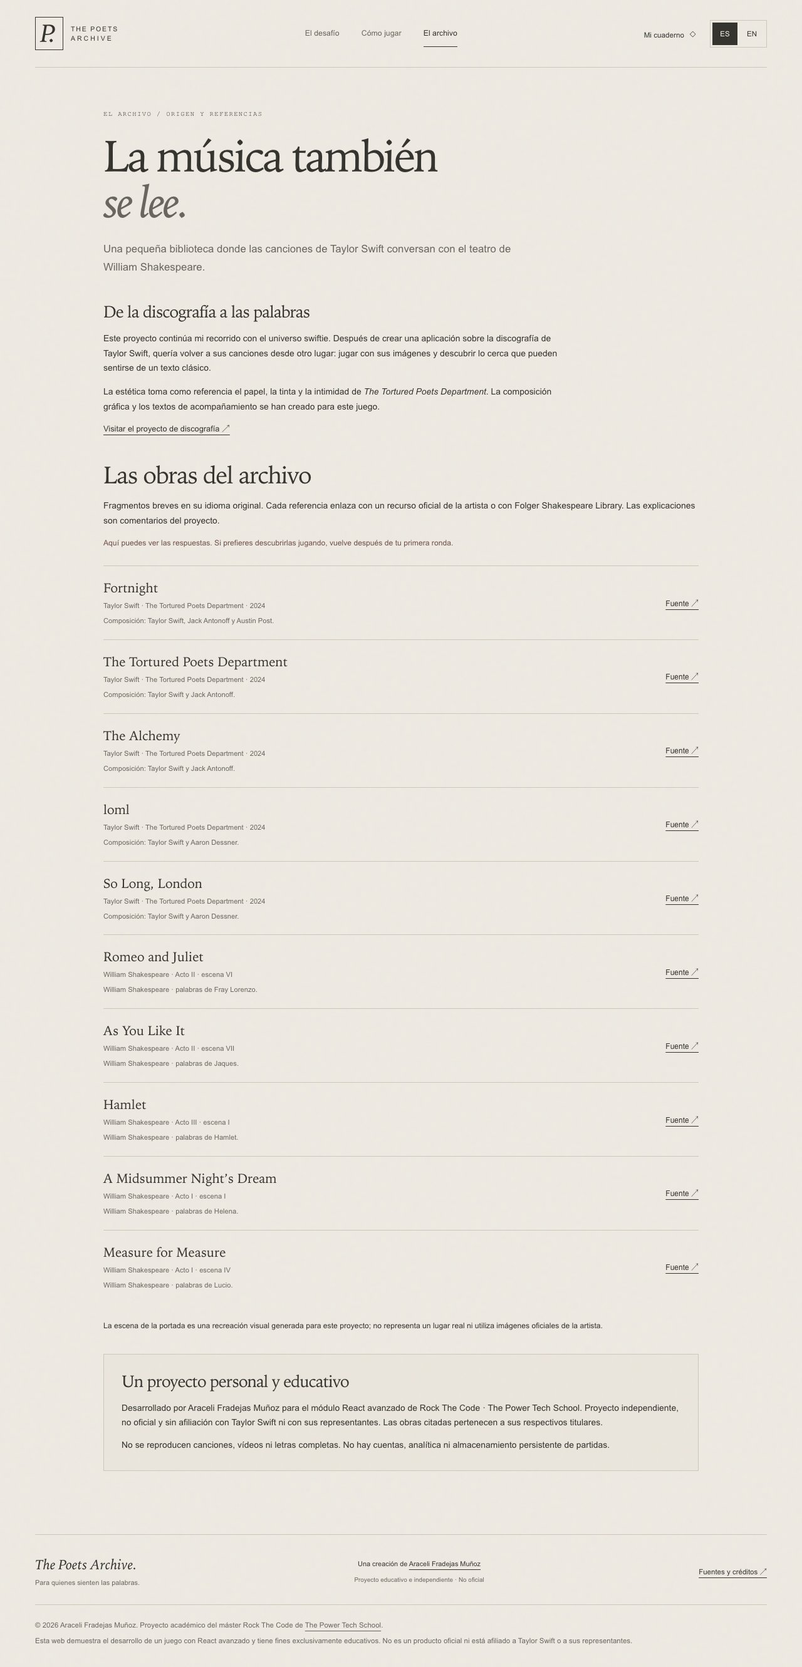
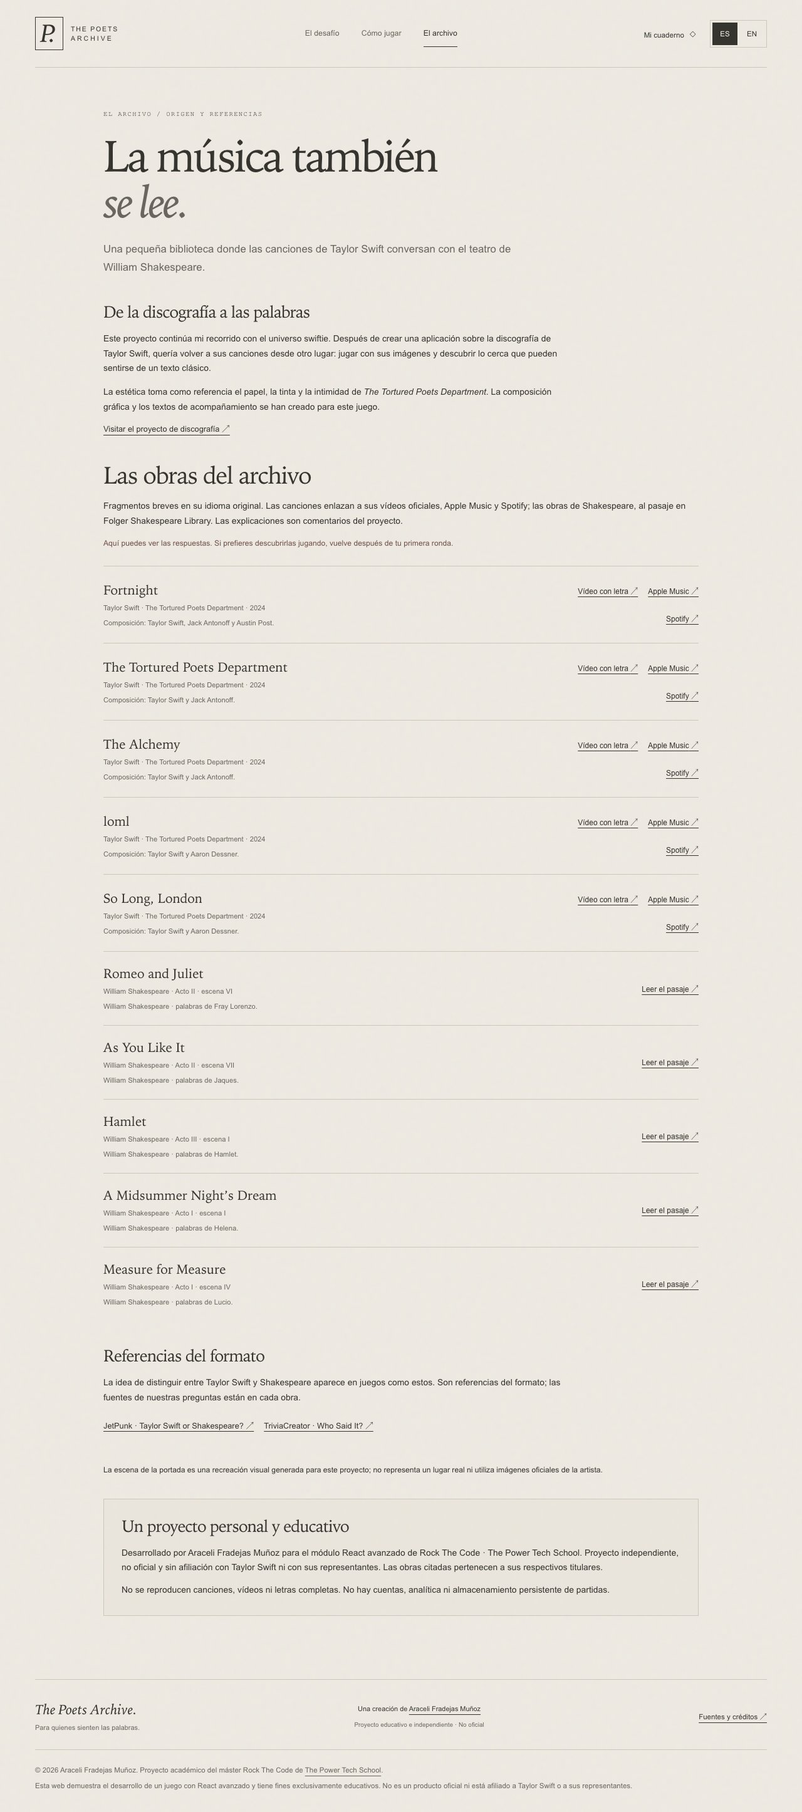
Corrige las fuentes y añade enlaces directos a las canciones y pasajes

diff --git a/src/data/questions.js b/src/data/questions.js
@@ -7,13 +7,17 @@ export const questions = [
     explanation: 'La rutina sirve como imagen de un malestar que parece repetirse. Es una canción de The Tortured Poets Department, con Post Malone.',
     credits: 'Composición: Taylor Swift, Jack Antonoff y Austin Post.',
     source: 'https://www.youtube.com/watch?v=HzsQHfBA3MY',
+    spotifyUrl: 'https://open.spotify.com/track/2OzhQlSqBEmt7hmkYxfT6m',
+    appleMusicUrl: 'https://music.apple.com/us/song/fortnight-feat-post-malone/1736268216',
   },
   {
     id: 'typewriter', author: 'taylor', quote: 'You left your typewriter at my apartment',
     work: 'The Tortured Poets Department', collection: ttpd, hint: 'Un objeto de escritura queda en un espacio doméstico.',
     explanation: 'La máquina de escribir abre la canción que da nombre al álbum y conecta su imaginario con la literatura.',
     credits: 'Composición: Taylor Swift y Jack Antonoff.',
-    source: 'https://www.taylorswift.com/ttpdcreditsfortnightacoustic/',
+    source: 'https://www.youtube.com/watch?v=RQMz4JDbtmI',
+    spotifyUrl: 'https://open.spotify.com/track/3NMrVbIVWT3fPXBj0rNDKG',
+    appleMusicUrl: 'https://music.apple.com/us/song/the-tortured-poets-department/1736268219',
   },
   {
     id: 'alchemy', author: 'taylor', quote: 'These chemicals hit me like white wine',
@@ -21,6 +25,8 @@ export const questions = [
     explanation: 'La canción combina imágenes químicas y deportivas para hablar de una conexión amorosa.',
     credits: 'Composición: Taylor Swift y Jack Antonoff.',
     source: 'https://www.youtube.com/watch?v=iMMUAd66vxo',
+    spotifyUrl: 'https://open.spotify.com/track/1dhMTsEZz6ZEquGvmzVoHn',
+    appleMusicUrl: 'https://music.apple.com/us/song/the-alchemy/1736268524',
   },
   {
     id: 'loml', author: 'taylor', quote: 'Dancing phantoms on the terrace',
@@ -28,6 +34,8 @@ export const questions = [
     explanation: 'La imagen de los fantasmas evoca una intimidad que ya no está. El título abreviado juega con el amor y la pérdida.',
     credits: 'Composición: Taylor Swift y Aaron Dessner.',
     source: 'https://www.youtube.com/watch?v=GZ4vaTRn0HU',
+    spotifyUrl: 'https://open.spotify.com/track/1hDaTv1fIBa3178MLmfdN4',
+    appleMusicUrl: 'https://music.apple.com/us/song/loml/1736268515',
   },
   {
     id: 'london', author: 'taylor', quote: 'I stopped trying to make him laugh',
@@ -35,40 +43,42 @@ export const questions = [
     explanation: 'La voz narrativa enumera esfuerzos que deja de hacer. La despedida se dirige también a la ciudad del título.',
     credits: 'Composición: Taylor Swift y Aaron Dessner.',
     source: 'https://www.youtube.com/watch?v=CCUr2pNJft4',
+    spotifyUrl: 'https://open.spotify.com/track/3Vevii7qKqrmW8CcyzBHDl',
+    appleMusicUrl: 'https://music.apple.com/us/song/so-long-london/1736268498',
   },
   {
     id: 'romeo', author: 'shakespeare', quote: 'These violent delights have violent ends',
     work: 'Romeo and Juliet', collection: 'Acto II · escena VI', hint: 'Una advertencia antes de una unión precipitada.',
     explanation: 'Fray Lorenzo advierte sobre los extremos de la pasión antes de la boda de Romeo y Julieta.',
     credits: 'William Shakespeare · palabras de Fray Lorenzo.',
-    source: 'https://www.folger.edu/explore/shakespeares-works/romeo-and-juliet/read/2/6/',
+    source: 'https://www.folger.edu/explore/shakespeares-works/romeo-and-juliet/read/2/6/#line-2.6.9',
   },
   {
     id: 'stage', author: 'shakespeare', quote: 'All the world’s a stage',
     work: 'As You Like It', collection: 'Acto II · escena VII', hint: 'La vida se compara con una representación.',
     explanation: 'Jaques presenta las edades de la vida como papeles que una persona interpreta sobre un escenario.',
     credits: 'William Shakespeare · palabras de Jaques.',
-    source: 'https://www.folger.edu/explore/shakespeares-works/as-you-like-it/read/2/7/',
+    source: 'https://www.folger.edu/explore/shakespeares-works/as-you-like-it/read/2/7/#line-2.7.146',
   },
   {
     id: 'hamlet', author: 'shakespeare', quote: 'To be or not to be',
     work: 'Hamlet', collection: 'Acto III · escena I', hint: 'Una duda sobre la existencia abre un soliloquio.',
     explanation: 'Hamlet sopesa el sufrimiento y lo desconocido. Es el comienzo de su célebre soliloquio.',
     credits: 'William Shakespeare · palabras de Hamlet.',
-    source: 'https://www.folger.edu/explore/shakespeares-works/hamlet/read/3/1/',
+    source: 'https://www.folger.edu/explore/shakespeares-works/hamlet/read/3/1/#line-3.1.64',
   },
   {
     id: 'dream', author: 'shakespeare', quote: 'Love looks not with the eyes',
     work: 'A Midsummer Night’s Dream', collection: 'Acto I · escena I', hint: 'La mirada no basta para explicar el enamoramiento.',
     explanation: 'Helena reflexiona sobre la forma en que el amor transforma la percepción de la persona amada.',
     credits: 'William Shakespeare · palabras de Helena.',
-    source: 'https://www.folger.edu/explore/shakespeares-works/a-midsummer-nights-dream/read/1/1/',
+    source: 'https://www.folger.edu/explore/shakespeares-works/a-midsummer-nights-dream/read/1/1/#line-1.1.240',
   },
   {
     id: 'doubts', author: 'shakespeare', quote: 'Our doubts are traitors',
     work: 'Measure for Measure', collection: 'Acto I · escena IV', hint: 'El temor puede impedir que intentemos lo que deseamos.',
     explanation: 'Lucio anima a Isabella a actuar. Las dudas aparecen personificadas como traidoras que nos hacen perder oportunidades.',
     credits: 'William Shakespeare · palabras de Lucio.',
-    source: 'https://www.folger.edu/explore/shakespeares-works/measure-for-measure/read/1/4/',
+    source: 'https://www.folger.edu/explore/shakespeares-works/measure-for-measure/read/1/4/#line-1.4.85',
   },
 ];

diff --git a/src/pages/Archive.jsx b/src/pages/Archive.jsx
@@ -1,10 +1,12 @@
+import WorkLinks from '../components/WorkLinks';
 import { useLanguage } from '../context/LanguageContext';
 import { questions, authorNames } from '../data/questions';
 export default function Archive() {
   const { t } = useLanguage();
   return <article className="reading-page"><p className="eyebrow">{t("EL ARCHIVO / ORIGEN Y REFERENCIAS")}</p><h1 tabIndex={-1}>{t("La música también")}<br /><em>{t("se lee.")}</em></h1><p className="lead">{t("Una pequeña biblioteca donde las canciones de Taylor Swift conversan con el teatro de William Shakespeare.")}</p>
     <section className="archive-story"><h2>{t("De la discografía a las palabras")}</h2><p>{t("Este proyecto continúa mi recorrido con el universo swiftie. Después de crear una aplicación sobre la discografía de Taylor Swift, quería volver a sus canciones desde otro lugar: jugar con sus imágenes y descubrir lo cerca que pueden sentirse de un texto clásico.")}</p><p>{t("La estética toma como referencia el papel, la tinta y la intimidad de ")}<cite>{t("The Tortured Poets Department")}</cite>{t(". La composición gráfica y los textos de acompañamiento se han creado para este juego.")}</p><a href="https://github.com/AraceliFradejas/RTC-PROYECTO6-API-REST" target="_blank" rel="noreferrer">{t("Visitar el proyecto de discografía ↗")}</a></section>
-    <section><h2>{t("Las obras del archivo")}</h2><p>{t("Fragmentos breves en su idioma original. Cada referencia enlaza con un recurso oficial de la artista o con Folger Shakespeare Library. Las explicaciones son comentarios del proyecto.")}</p><p className="small">{t("Aquí puedes ver las respuestas. Si prefieres descubrirlas jugando, vuelve después de tu primera ronda.")}</p><ul className="source-list">{questions.map((question) => <li key={question.id}><span><strong>{question.work}</strong><small>{authorNames[question.author]} · {t(question.collection)}</small><small>{t(question.credits)}</small></span><a href={question.source} target="_blank" rel="noreferrer" aria-label={t('Fuente de {work}', { work: question.work })}>{t("Fuente ↗")}</a></li>)}</ul></section>
+    <section><h2>{t("Las obras del archivo")}</h2><p>{t("Fragmentos breves en su idioma original. Las canciones enlazan a sus vídeos oficiales, Apple Music y Spotify; las obras de Shakespeare, al pasaje en Folger Shakespeare Library. Las explicaciones son comentarios del proyecto.")}</p><p className="small">{t("Aquí puedes ver las respuestas. Si prefieres descubrirlas jugando, vuelve después de tu primera ronda.")}</p><ul className="source-list">{questions.map((question) => <li key={question.id}><span><strong>{question.work}</strong><small>{authorNames[question.author]} · {t(question.collection)}</small><small>{t(question.credits)}</small></span><WorkLinks question={question}/></li>)}</ul></section>
+    <section className="archive-story"><h2>{t('Referencias del formato')}</h2><p>{t('La idea de distinguir entre Taylor Swift y Shakespeare aparece en juegos como estos. Son referencias del formato; las fuentes de nuestras preguntas están en cada obra.')}</p><div className="work-links"><a href="https://www.jetpunk.com/user-quizzes/1596124/taylor-swift-or-shakespeare" target="_blank" rel="noopener noreferrer">JetPunk · Taylor Swift or Shakespeare? ↗</a><a href="https://triviacreator.com/quiz/xgXwToS" target="_blank" rel="noopener noreferrer">TriviaCreator · Who Said It? ↗</a></div></section>
     <p className="small">{t('La escena de la portada es una recreación visual generada para este proyecto; no representa un lugar real ni utiliza imágenes oficiales de la artista.')}</p><aside className="note"><h2>{t("Un proyecto personal y educativo")}</h2><p>{t("Desarrollado por Araceli Fradejas Muñoz para el módulo React avanzado de Rock The Code · The Power Tech School. Proyecto independiente, no oficial y sin afiliación con Taylor Swift ni con sus representantes. Las obras citadas pertenecen a sus respectivos titulares.")}</p><p>{t("No se reproducen canciones, vídeos ni letras completas. No hay cuentas, analítica ni almacenamiento persistente de partidas.")}</p></aside>
   </article>;
 }

diff --git a/src/pages/Notebook.jsx b/src/pages/Notebook.jsx
@@ -1,3 +1,4 @@
+import WorkLinks from '../components/WorkLinks';
 import { useMemo, useState } from 'react';
 import { useLanguage } from '../context/LanguageContext';
 import { useNotebook, useNotebookActions } from '../context/NotebookContext';
@@ -21,7 +22,7 @@ export default function Notebook() {
     <h2 className="sr-only">{t("Mis sellos de lectura")}</h2><ReadingStamps {...session}/>
     <div className="notebook-section-heading"><h2>{t('Mis hallazgos')}</h2><div className="collection-filters" role="group" aria-label={t('Filtrar obras')}><button aria-pressed={filter === 'all'} onClick={() => setFilter('all')}>{t('Descubiertas')}</button><button aria-pressed={filter === 'saved'} onClick={() => setFilter('saved')}>{t('Guardadas')}</button></div></div>
     <label className="notebook-search">{t('Buscar por obra o autor')}<input type="search" value={query} onChange={event => setQuery(event.target.value)} placeholder={t('Un título, una voz…')}/></label>
-    {works.length ? <div className="discovery-grid">{works.map(question => <article key={question.id} className="discovery-card"><span className="eyebrow">{authorNames[question.author]}</span><h3>{question.work}</h3><p>{t(question.explanation)}</p><SaveButton id={question.id}/><a href={question.source} target="_blank" rel="noreferrer">{t('Consultar la fuente ↗')}</a></article>)}</div> : <div className="notebook-empty"><span aria-hidden="true">❧</span><h3>{t(session.discovered.length ? 'Aquí todavía no hay una coincidencia.' : 'Todavía hay páginas en blanco.')}</h3><p>{t('Juega un capítulo para descubrir obras. Después podrás guardarlas y encontrarlas aquí.')}</p><Link to="/">{t('Explorar los desafíos')} →</Link></div>}
+    {works.length ? <div className="discovery-grid">{works.map(question => <article key={question.id} className="discovery-card"><span className="eyebrow">{authorNames[question.author]}</span><h3>{question.work}</h3><p>{t(question.explanation)}</p><SaveButton id={question.id}/><WorkLinks question={question}/></article>)}</div> : <div className="notebook-empty"><span aria-hidden="true">❧</span><h3>{t(session.discovered.length ? 'Aquí todavía no hay una coincidencia.' : 'Todavía hay páginas en blanco.')}</h3><p>{t('Juega un capítulo para descubrir obras. Después podrás guardarlas y encontrarlas aquí.')}</p><Link to="/">{t('Explorar los desafíos')} →</Link></div>}
     <section className="session-history"><h2>{t('Mi recorrido')}</h2><p className="small">{t('Últimas veinte partidas terminadas. Las nuevas lecturas no borran las anteriores.')}</p>
       {session.history.length ? <ol>{session.history.map((item, index) => <li key={item.id}><span className="eyebrow">{String(session.history.length - index).padStart(2, '0')}</span><strong>{t(item.challenge === 'eras' ? 'El hilo de las eras' : item.challenge === 'works' ? 'La obra oculta' : 'Entre dos plumas')}</strong><span>{item.challenge === 'eras' ? t('Comprobaciones: {count}', { count: item.checks }) : `${item.score} ${t('puntos')} · ${item.correct}/${item.total}`}</span></li>)}</ol> : <p>{t('Tu primera partida terminada aparecerá aquí.')}</p>}
     </section><div className="notebook-clear">{confirmClear ? <><p>{t('Se borrarán los hallazgos, favoritos, sellos e historial. La partida actual se conserva.')}</p><button className="button button-outline" onClick={() => { dispatch({ type: 'CLEAR' }); setConfirmClear(false); }}>{t('Sí, vaciar mi cuaderno')}</button><button className="text-button" onClick={() => setConfirmClear(false)}>{t('Cancelar')}</button></> : <button className="text-button" disabled={!session.discovered.length && !session.history.length} onClick={() => setConfirmClear(true)}>{t('Vaciar mi cuaderno')}</button>}</div>

diff --git a/src/components/ResultsList.jsx b/src/components/ResultsList.jsx
@@ -1,9 +1,10 @@
+import WorkLinks from './WorkLinks';
 import { useLanguage } from '../context/LanguageContext';
 import { authorNames } from '../data/questions';
 export default function ResultsList({ questions, answers }) {
   const { t } = useLanguage();
   return <ol className="results-list">{answers.map((answer, index) => {
       const question = questions.find((item) => item.id === answer.id);
-      return <li key={answer.id}><span className="result-number">{String(index + 1).padStart(2, '0')}</span><div><h3>{question.work}</h3><p>{authorNames[question.author]} · {answer.correct ? t("Acierto") : answer.author === null ? t("Tiempo agotado") : t('Elegiste {author}', { author: question.choices?.find(choice => choice.id === answer.author)?.label || authorNames[answer.author] })}{answer.hinted ? t(" · Con pista") : ''}</p><details><summary>{t("Leer el contexto y la fuente")}</summary><p>{t(question.explanation)}</p><p>{t(question.credits)}</p><a href={question.source} target="_blank" rel="noreferrer">{t("Consultar la fuente ↗")}</a></details></div><span className="result-points">{answer.correct ? '✓' : '—'} {answer.points} <span className="sr-only">{t("puntos")}</span></span></li>;
+      return <li key={answer.id}><span className="result-number">{String(index + 1).padStart(2, '0')}</span><div><h3>{question.work}</h3><p>{authorNames[question.author]} · {answer.correct ? t("Acierto") : answer.author === null ? t("Tiempo agotado") : t('Elegiste {author}', { author: question.choices?.find(choice => choice.id === answer.author)?.label || authorNames[answer.author] })}{answer.hinted ? t(" · Con pista") : ''}</p><details><summary>{t("Leer el contexto y la fuente")}</summary><p>{t(question.explanation)}</p><p>{t(question.credits)}</p><WorkLinks question={question}/></details></div><span className="result-points">{answer.correct ? '✓' : '—'} {answer.points} <span className="sr-only">{t("puntos")}</span></span></li>;
     })}</ol>;
 }

diff --git a/src/components/Revelation.jsx b/src/components/Revelation.jsx
@@ -1,3 +1,4 @@
+import WorkLinks from './WorkLinks';
 import { useEffect } from 'react';
 import { useNotebookActions } from '../context/NotebookContext';
 import SaveButton from './notebook/SaveButton';
@@ -14,7 +15,7 @@ export default function Revelation({ question, answer, onNext, last }) {
       <h2 id="reveal-heading" ref={heading} tabIndex={-1}>{answer.correct ? t("Has acertado.") : answer.author === null ? t("Se acabó el tiempo.") : t(question.choices ? 'Esta vez, era otra obra.' : 'Esta vez, era otra pluma.')}</h2>
       <p><strong>{authorNames[question.author]}</strong> · <cite>{question.work}</cite></p>
       <p>{t(question.explanation)}</p><p className="credits">{t(question.credits)}</p>
-      <a href={question.source} target="_blank" rel="noreferrer">{t("Consultar la fuente ")}<span aria-hidden="true">↗</span></a>
+      <WorkLinks question={question}/>
     </div><SaveButton id={question.id}/><button className="button" onClick={onNext}>{last ? t("Leer mi resultado") : t("Siguiente fragmento")} <span aria-hidden="true">→</span></button>
   </section>;
 }

diff --git a/src/components/WorkLinks.jsx b/src/components/WorkLinks.jsx
@@ -1,0 +1,14 @@
+import { useLanguage } from '../context/LanguageContext';
+import '../styles/work-links.css';
+
+export default function WorkLinks({ question }) {
+  const { t } = useLanguage();
+  const resources = question.author === 'taylor'
+    ? [[t('Vídeo con letra'), question.source], ['Apple Music', question.appleMusicUrl], ['Spotify', question.spotifyUrl]]
+    : [[t('Leer el pasaje'), question.source]];
+  return <div className="work-links">{resources.map(([resource, href]) =>
+    <a key={resource} href={href} target="_blank" rel="noopener noreferrer"
+      aria-label={t('{resource}: {work} (se abre en otra pestaña)', { resource, work: question.work })}>
+      {resource} <span aria-hidden="true">↗</span>
+    </a>)}</div>;
+}

diff --git a/src/styles/notebook.css b/src/styles/notebook.css
@@ -21,7 +21,6 @@
 .discovery-card { padding: 25px; border: 1px solid var(--line); background: #f8f5ee; display: flex; flex-direction: column; align-items: flex-start; }
 .discovery-card h3 { margin: 15px 0; font-size: 1.7rem; }
 .discovery-card p { font-size: .8rem; flex: 1; margin-bottom: 22px; }
-.discovery-card > a { font-size: .74rem; margin-top: 16px; }
 .notebook-empty { padding: 40px; text-align: center; border: 1px dashed var(--line); }
 .notebook-empty > span { font-size: 2.7rem; color: #9b8c70; }
 .notebook-empty h3 { margin: 12px 0; }

diff --git a/src/styles/work-links.css b/src/styles/work-links.css
@@ -1,0 +1,8 @@
+.work-links { display: flex; flex-wrap: wrap; gap: 6px 16px; align-items: center; }
+.work-links a { font-size: .75rem; padding-block: 10px; text-underline-offset: 4px; }
+.source-list .work-links { flex: 0 1 260px; justify-content: flex-end; }
+.discovery-card .work-links { margin-top: 16px; }
+@media (max-width: 600px) {
+  .source-list li { align-items: flex-start; flex-direction: column; }
+  .source-list .work-links { flex-basis: auto; justify-content: flex-start; }
+}

diff --git a/docs/ENLACES.md b/docs/ENLACES.md
@@ -1,0 +1,42 @@
+# Revisión de enlaces · 27 de septiembre de 2026
+
+Se ha corregido la referencia de la canción The Tortured Poets Department: apuntaba a una página de créditos de otra edición. Ahora abre su vídeo oficial con letra.
+
+El Proyecto 6 construía búsquedas de Spotify y Apple Music por canción y álbum. Esta versión utiliza enlaces directos a las pistas. Se mantienen fuera del juego los reproductores y las conexiones a esas plataformas; solo se abren cuando la persona pulsa el enlace.
+
+## Catálogo revisado
+
+| Obra | Destinos |
+| --- | --- |
+| Fortnight | [Vídeo oficial](https://www.youtube.com/watch?v=HzsQHfBA3MY) · [Apple Music](https://music.apple.com/us/song/fortnight-feat-post-malone/1736268216) · [Spotify](https://open.spotify.com/track/2OzhQlSqBEmt7hmkYxfT6m) |
+| The Tortured Poets Department | [Vídeo oficial](https://www.youtube.com/watch?v=RQMz4JDbtmI) · [Apple Music](https://music.apple.com/us/song/the-tortured-poets-department/1736268219) · [Spotify](https://open.spotify.com/track/3NMrVbIVWT3fPXBj0rNDKG) |
+| The Alchemy | [Vídeo oficial](https://www.youtube.com/watch?v=iMMUAd66vxo) · [Apple Music](https://music.apple.com/us/song/the-alchemy/1736268524) · [Spotify](https://open.spotify.com/track/1dhMTsEZz6ZEquGvmzVoHn) |
+| loml | [Vídeo oficial](https://www.youtube.com/watch?v=GZ4vaTRn0HU) · [Apple Music](https://music.apple.com/us/song/loml/1736268515) · [Spotify](https://open.spotify.com/track/1hDaTv1fIBa3178MLmfdN4) |
+| So Long, London | [Vídeo oficial](https://www.youtube.com/watch?v=CCUr2pNJft4) · [Apple Music](https://music.apple.com/us/song/so-long-london/1736268498) · [Spotify](https://open.spotify.com/track/3Vevii7qKqrmW8CcyzBHDl) |
+| Romeo and Juliet | [Pasaje en Folger](https://www.folger.edu/explore/shakespeares-works/romeo-and-juliet/read/2/6/#line-2.6.9) |
+| As You Like It | [Pasaje en Folger](https://www.folger.edu/explore/shakespeares-works/as-you-like-it/read/2/7/#line-2.7.146) |
+| Hamlet | [Pasaje en Folger](https://www.folger.edu/explore/shakespeares-works/hamlet/read/3/1/#line-3.1.64) |
+| A Midsummer Night’s Dream | [Pasaje en Folger](https://www.folger.edu/explore/shakespeares-works/a-midsummer-nights-dream/read/1/1/#line-1.1.240) |
+| Measure for Measure | [Pasaje en Folger](https://www.folger.edu/explore/shakespeares-works/measure-for-measure/read/1/4/#line-1.4.85) |
+
+## Qué se ha comprobado
+
+- Los cinco vídeos: respuesta 200 de YouTube oEmbed, título de la canción correspondiente y canal Taylor Swift.
+- Las cinco pistas de Apple Music: respuesta 200 y título de canción y artista en la página de destino.
+- Las cinco pistas de Spotify: título y artista en las páginas indexadas; respuesta 200 de oEmbed y título correcto para cada pista.
+- Las cinco escenas de Folger: texto citado presente y respuesta 200; los cinco identificadores de línea existen en el HTML.
+- Archivo oficial de eras, página de The Power Tech School y referencias del formato: contenido comprobado en la web.
+- Perfil de GitHub y repositorio del Proyecto 6: respuesta 200.
+
+## Referencias del formato
+
+Son las dos plataformas nombradas en el texto inicial, que no incluía URLs concretas. Se han localizado estos ejemplos del mismo juego:
+
+- [JetPunk · Taylor Swift or Shakespeare?](https://www.jetpunk.com/user-quizzes/1596124/taylor-swift-or-shakespeare)
+- [TriviaCreator · Who Said It — Taylor Swift Or Shakespeare?](https://triviacreator.com/quiz/xgXwToS)
+
+Son inspiración para la mecánica, no fuentes de atribución de nuestras preguntas.
+
+## Límites
+
+Revisión de destinos y contenido, no de reproducción completa con cuentas de pago. Las plataformas pueden pedir inicio de sesión o variar su disponibilidad por país. Apple Music utiliza enlaces de su catálogo estadounidense. Los saltos de Folger utilizan identificadores de su edición, cuya numeración puede diferir de otras ediciones. La disponibilidad externa puede cambiar.

diff --git a/docs/VALIDACION.md b/docs/VALIDACION.md
@@ -11,12 +11,16 @@ Node.js 22.23.2, Chrome en macOS, aplicación compilada con Vite. Las pruebas de
 | `npm run lint` | Sin errores ni avisos |
 | `npm test` | 17 pruebas de reglas, catálogo, idiomas, cronología y cuaderno correctas |
 | `npm run build` | Compilación y generación de HTML correctas |
-| Pruebas de Playwright | 28 casos comprobados: suite de 26 y recorrido adicional de obras en escritorio y móvil |
+| Pruebas de Playwright | 28 casos en navegador correctos (ES/EN) |
 | axe-core WCAG 2 A/AA y 2.1 AA | Sin infracciones detectadas en inicio, reglas, archivo, pregunta, revelación, resultados, cuaderno y cronología |
 | `npm run check:renders` | Tres cambios de segundo sin nuevos renderizados de Game ni QuestionCard |
 | Instalación de dependencias | Cero vulnerabilidades notificadas por npm tras la actualización |
 
 Los números corresponden a esta revisión. Los recursos de terceros y las dependencias pueden cambiar; no se asume que el resultado sea permanente.
+
+## Enlaces externos
+
+Revisión de los veinte destinos del catálogo (vídeos, canciones y pasajes), referencias del formato, archivo de eras, escuela y GitHub. Evidencias y límites en [ENLACES.md](ENLACES.md).
 
 ## Casos funcionales
 

diff --git a/MEMORIA.md b/MEMORIA.md
@@ -156,3 +156,9 @@ Las fuentes de cada pregunta aparecen en `src/data/questions.js` y en la página
 Referencias técnicas: [useReducer](https://react.dev/reference/react/useReducer), [React Router](https://reactrouter.com/start/declarative/installation) y [React Hook Form](https://www.react-hook-form.com/).
 
 **Araceli Fradejas Muñoz** · Rock The Code · The Power Tech School.
+
+## Revisión de enlaces
+
+He revisado las referencias para que se pueda continuar desde el juego hasta la obra. Las canciones tienen enlaces directos a Apple Music y Spotify, además de su vídeo oficial con letra. En el Proyecto 6 utilizaba búsquedas por título; aquí el catálogo pequeño permite guardar la URL de cada pista. Para Shakespeare, el enlace abre la escena de Folger en la línea del fragmento.
+
+El componente `WorkLinks` comparte estas opciones entre archivo, revelación, resultados y cuaderno. JetPunk y TriviaCreator figuran como referencias del formato, separadas de las fuentes de las preguntas. La comprobación y sus límites están en [la revisión de enlaces](docs/ENLACES.md).
